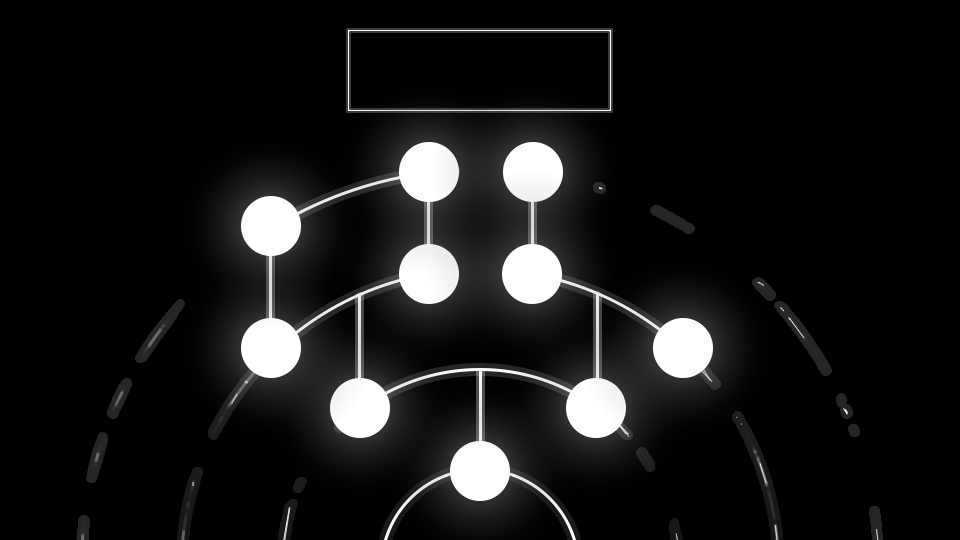
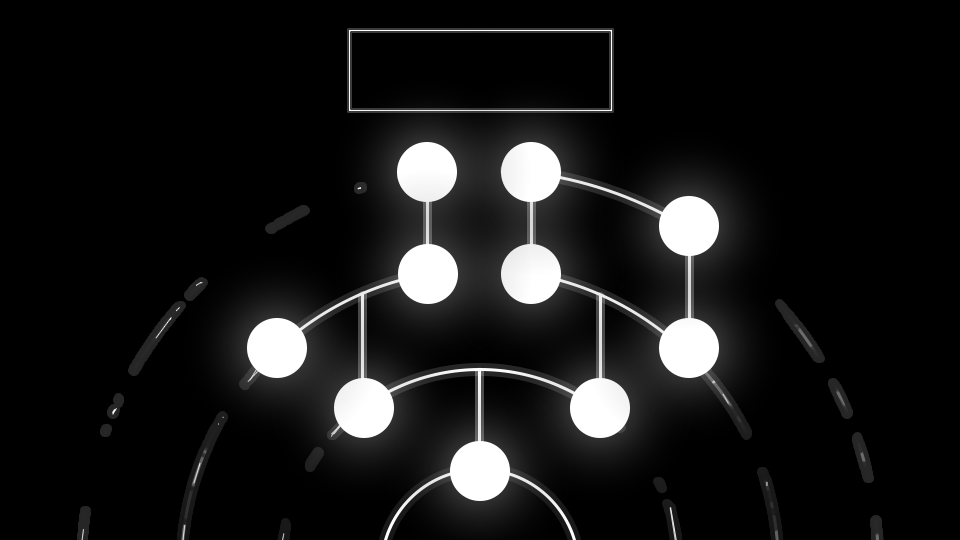
Se añade fondo de la tienda con ubicacion de nodos

diff --git a/src/store.cpp b/src/store.cpp
@@ -31,7 +31,7 @@ void Store::initialize_power_tree() {
     power_tree.insert(Product("Rootkit Reducer", "Removes 1 word from terminal", 6));
     power_tree.insert(Product("Malware Minimizer", "Removes 1 word from terminal", 8));
     power_tree.insert(Product("DDoS Amplifier", "Increases attack power by 5", 13));
-    power_tree.insert(Product("Zero-Day Surge", "Increases attack power by 12", 12));
+    power_tree.insert(Product("Zero-Day Surge", "Increases attack power by 12", 12)); 
     power_tree.insert(Product("Brute Force Multiplier", "Increases attack power by 24", 11));
     power_tree.insert(Product("Ultimate Exploit", "Increases attack power by 50", 38));
 }
@@ -96,37 +96,61 @@ void Store::handle_click(float x, float y, const sf::Font& font) {
     }
 }
 
+
 void Store::draw_power_tree(sf::RenderWindow& window, const sf::Font& font) {
     sf::RectangleShape background_block{ sf::Vector2f{ 1280.f, 720.f } };
     background_block.setFillColor(sf::Color(0, 0, 0, 150));
     window.draw(background_block);
 
-    sf::RectangleShape store_window{ sf::Vector2f{ 800.f, 600.f } };
-    store_window.setFillColor(sf::Color::White);
-    store_window.setOutlineColor(sf::Color::Green);
-    store_window.setOutlineThickness(5.f);
-    store_window.setPosition(240.f, 60.f);
-    window.draw(store_window);
+    // Cargar y dibujar la imagen de fondo de la tienda
+    sf::Texture shop_background_texture;
+    if (!shop_background_texture.loadFromFile("assets/images/shop_background.png")) {
+        std::cerr << "Failed to load shop background image." << std::endl;
+        return;
+    }
+    sf::Sprite shop_background_sprite(shop_background_texture);
+    shop_background_sprite.setPosition(240.f, 60.f);
+    shop_background_sprite.setScale(
+        800.f / shop_background_texture.getSize().x,
+        600.f / shop_background_texture.getSize().y
+    );
+    window.draw(shop_background_sprite);
 
-    sf::Text store_title{ "Welcome Dark Web - Buy Powers", font, 45 };
-    store_title.setFillColor(sf::Color::Black);
+    // Dibujar el borde de la ventana de la tienda
+    sf::RectangleShape store_window_border{ sf::Vector2f{ 800.f, 600.f } };
+    store_window_border.setFillColor(sf::Color::Transparent);
+    store_window_border.setOutlineColor(sf::Color::Green);
+    store_window_border.setOutlineThickness(5.f);
+    store_window_border.setPosition(240.f, 60.f);
+    window.draw(store_window_border);
+
+    sf::Text store_title{ "", font, 45 };
+    store_title.setFillColor(sf::Color::White);  // Cambiado a blanco para que se vea sobre el fondo
     store_title.setPosition(320.f, 80.f);
     window.draw(store_title);
 
     sf::Text coins_text{ "Yuca Coins: " + std::to_string(yuca_coins), font, 30 };
-    coins_text.setFillColor(sf::Color::Black);
+    coins_text.setFillColor(sf::Color::White);  // Cambiado a blanco para que se vea sobre el fondo
     coins_text.setPosition(800.f, 120.f);
     window.draw(coins_text);
 
+    // Definir el tamaño de los nodos (puedes ajustar este valor según tus necesidades)
+    float node_radius = 30.f;  // Radio más pequeño para los nodos
+
     for (const auto& product : pre_order_products) {
-        sf::CircleShape node(40.f);
+        sf::CircleShape node(node_radius);
         node.setPosition(product.get_position());
         node.setFillColor(yuca_coins >= product.get_price().value_or(0) ? sf::Color::Green : sf::Color::Red);
         window.draw(node);
 
-        sf::Text node_text{ product.get_name().value_or("Unnamed"), font, 20 };
+        sf::Text node_text{ product.get_name().value_or("Unnamed"), font, 16 };  // Tamaño de fuente más pequeño
         node_text.setFillColor(sf::Color::Black);
-        node_text.setPosition(product.get_position().x + 10.f, product.get_position().y + 10.f);
+        
+        // Centrar el texto en el nodo
+        sf::FloatRect textRect = node_text.getLocalBounds();
+        node_text.setOrigin(textRect.left + textRect.width/2.0f, textRect.top + textRect.height/2.0f);
+        node_text.setPosition(product.get_position().x + node_radius, product.get_position().y + node_radius);
+        
         window.draw(node_text);
     }
 }

diff --git a/src/main.cpp b/src/main.cpp
@@ -35,16 +35,16 @@ int main()
         store.initialize_store_icon();
 
         // Set positions for products (adjust these as needed)
-        store.set_product_position("Exploit Enhancer", 540.f, 200.f);
-        store.set_product_position("Firewall Bypass", 440.f, 300.f);
-        store.set_product_position("Code Injection", 640.f, 300.f);
-        store.set_product_position("Packet Sniffer", 340.f, 400.f);
-        store.set_product_position("Rootkit Reducer", 540.f, 400.f);
-        store.set_product_position("Malware Minimizer", 740.f, 400.f);
-        store.set_product_position("DDoS Amplifier", 240.f, 500.f);
-        store.set_product_position("Zero-Day Surge", 440.f, 500.f);
-        store.set_product_position("Brute Force Multiplier", 640.f, 500.f);
-        store.set_product_position("Ultimate Exploit", 840.f, 500.f);
+        store.set_product_position("Exploit Enhancer", 610.f, 555.f);
+        store.set_product_position("Firewall Bypass", 712.f, 485.f);
+        store.set_product_position("Code Injection", 780.f, 415.f);
+        store.set_product_position("Packet Sniffer", 787.f, 280.f);
+        store.set_product_position("Rootkit Reducer", 649.f, 220.f);
+        store.set_product_position("Malware Minimizer", 649.f, 335.f);
+        store.set_product_position("DDoS Amplifier", 510.f, 485.f);
+        store.set_product_position("Zero-Day Surge", 565.f, 335.f);
+        store.set_product_position("Brute Force Multiplier", 568.f, 220.f);
+        store.set_product_position("Ultimate Exploit", 440.f, 415.f);
     }
     catch (const std::runtime_error &error)
     {
